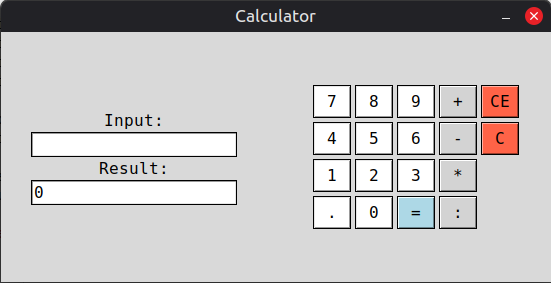
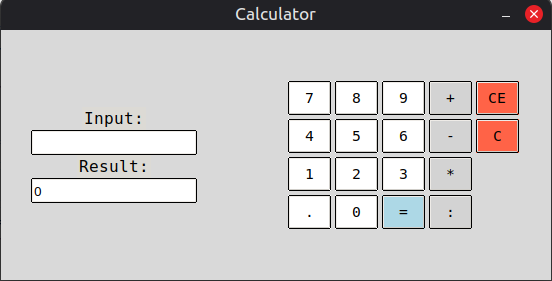
Fixes

diff --git a/tkinter_calculator.py b/tkinter_calculator.py
@@ -2,6 +2,7 @@
 
 import tkinter as tk
 import numpy
+from tkinter import ttk
 from numpy import sin as sin
 from numpy import cos as cos # Not yet implemented fully but just learning how to rename functions.
 from numpy import tan as tan
@@ -9,10 +10,35 @@ from numpy import tan as tan
 window = tk.Tk()
 window.title("Calculator")
 window.geometry("550x250")
-window.resizable(False, False) # Easier than having it adjust for now
+window.resizable(False, False)
 
-logo = tk.PhotoImage(file="calculator.png")
-window.iconphoto(True, logo)
+style = ttk.Style()
+style.theme_use("clam")
+
+style.configure(
+    "TEntry",
+    font=("Fixedsys", 11),
+    bordercolor="black"
+)
+
+style.configure(
+    "TButton",
+    font=("Fixedsys", 11),
+    height=1, 
+    width=3, 
+    bordercolor="black"
+)
+
+style.configure("Blue.TButton", background="lightblue")
+style.configure("White.TButton", background="white")
+style.configure("Gray.TButton", background="lightgray")
+style.configure("Red.TButton", background="tomato")
+
+try:
+    logo = tk.PhotoImage(file="calculator.png")
+    window.iconphoto(True, logo)
+except:
+    pass
 
 user_input = tk.StringVar(window) # A variable that stores what is written in .Entry().
 output = tk.StringVar(window, "0")
@@ -58,80 +84,80 @@ buttonsInput.pack(side="right")
 
 # Put entry and labels here
 
-input_text = tk.Label(resultWrite, text="Input:", font="Fixedsys")
+input_text = ttk.Label(resultWrite, text="Input:", font="Fixedsys")
 input_text.pack(side="top")
 
-write = tk.Entry(resultWrite, textvariable=user_input, font="Fixedsys", highlightbackground="black",)
+write = ttk.Entry(resultWrite, textvariable=user_input, style="TEntry")
 write.pack(side="top", after=input_text)
 
-output_text = tk.Label(resultWrite, text="Result:", font="Fixedsys")
+output_text = ttk.Label(resultWrite, text="Result:", font="Fixedsys")
 output_text.pack(side="top", after=write)
 
-result = tk.Entry(resultWrite, textvariable=output, font="Fixedsys", highlightbackground="black",)
-result.config(state="readonly", readonlybackground="white")
+result = ttk.Entry(resultWrite, textvariable=output, style="TEntry")
+result.config(state="readonly")
 result.pack(side="top", after=output_text)
 
 # Put buttons here
 
 # ---Numbers---
-calc = tk.Button(buttonsInput, text="=", font="Fixedsys", width=1, height=1, background="lightblue", highlightbackground="black", command=calculate)
+calc = ttk.Button(buttonsInput, text="=", style="Blue.TButton", command=calculate)
 calc.grid(row=3, column=2, padx=2, pady=2)
 
-zero = tk.Button(buttonsInput, text="0", font="Fixedsys", width=1, height=1, background="white", highlightbackground="black", command=lambda:insert("0")) # lambda - Acts as a sheild so that insert isn't already used on start
+zero = ttk.Button(buttonsInput, text="0", style="White.TButton", command=lambda:insert("0")) # lambda - Acts as a sheild so that insert isn't already used on start
 zero.grid(row=3, column=1, padx=2, pady=2)
 # lambda - Function that gets read on start and the program realises it isn't supposed to be used yet.
 # When we press the button, only then it "unpacks" lambda and does insert
 
-one = tk.Button(buttonsInput, text="1", font="Fixedsys", width=1, height=1, background="white", highlightbackground="black", command=lambda:insert("1"))
+one = ttk.Button(buttonsInput, text="1", style="White.TButton", command=lambda:insert("1"))
 one.grid(row=2, column=0, padx=2, pady=2)
 
-two = tk.Button(buttonsInput, text="2", font="Fixedsys", width=1, height=1, background="white", highlightbackground="black", command=lambda:insert("2"))
+two = ttk.Button(buttonsInput, text="2", style="White.TButton", command=lambda:insert("2"))
 two.grid(row=2, column=1, padx=2, pady=2)
 
-three = tk.Button(buttonsInput, text="3", font="Fixedsys", width=1, height=1, background="white", highlightbackground="black", command=lambda:insert("3"))
+three = ttk.Button(buttonsInput, text="3", style="White.TButton", command=lambda:insert("3"))
 three.grid(row=2, column=2, padx=2, pady=2)
 
-four = tk.Button(buttonsInput, text="4", font="Fixedsys", width=1, height=1, background="white", highlightbackground="black", command=lambda:insert("4"))
+four = ttk.Button(buttonsInput, text="4", style="White.TButton", command=lambda:insert("4"))
 four.grid(row=1, column=0, padx=2, pady=2)
 
-five = tk.Button(buttonsInput, text="5", font="Fixedsys", width=1, height=1, background="white", highlightbackground="black", command=lambda:insert("5"))
+five = ttk.Button(buttonsInput, text="5", style="White.TButton", command=lambda:insert("5"))
 five.grid(row=1, column=1, padx=2, pady=2)
 
-six = tk.Button(buttonsInput, text="6", font="Fixedsys", width=1, height=1, background="white", highlightbackground="black", command=lambda:insert("6"))
+six = ttk.Button(buttonsInput, text="6", style="White.TButton", command=lambda:insert("6"))
 six.grid(row=1, column=2, padx=2, pady=2)
 
-seven = tk.Button(buttonsInput, text="7", font="Fixedsys", width=1, height=1, background="white", highlightbackground="black", command=lambda:insert("7"))
+seven = ttk.Button(buttonsInput, text="7", style="White.TButton", command=lambda:insert("7"))
 seven.grid(row=0, column=0, padx=2, pady=2)
 
-eight = tk.Button(buttonsInput, text="8", font="Fixedsys", width=1, height=1, background="white", highlightbackground="black", command=lambda:insert("8"))
+eight = ttk.Button(buttonsInput, text="8", style="White.TButton", command=lambda:insert("8"))
 eight.grid(row=0, column=1, padx=2, pady=2)
 
-nine = tk.Button(buttonsInput, text="9", font="Fixedsys", width=1, height=1, background="white", highlightbackground="black", command=lambda:insert("9"))
+nine = ttk.Button(buttonsInput, text="9", style="White.TButton", command=lambda:insert("9"))
 nine.grid(row=0, column=2, padx=2, pady=2)
 
 # Operations
-plus = tk.Button(buttonsInput, text="+", font="Fixedsys", width=1, height=1, background="lightgray", highlightbackground="black", command=lambda:insert("+"))
+plus = ttk.Button(buttonsInput, text="+", style="Gray.TButton", command=lambda:insert("+"))
 plus.grid(row=0, column=3, padx=2, pady=2)
 
-minus = tk.Button(buttonsInput, text="-", font="Fixedsys", width=1, height=1, background="lightgray", highlightbackground="black", command=lambda:insert("-"))
+minus = ttk.Button(buttonsInput, text="-", style="Gray.TButton", command=lambda:insert("-"))
 minus.grid(row=1, column=3, padx=2, pady=2)
 
-times = tk.Button(buttonsInput, text="*", font="Fixedsys", width=1, height=1, background="lightgray", highlightbackground="black", command=lambda:insert("*"))
+times = ttk.Button(buttonsInput, text="*", style="Gray.TButton", command=lambda:insert("*"))
 times.grid(row=2, column=3, padx=2, pady=2)
 
-divided = tk.Button(buttonsInput, text=":", font="Fixedsys", width=1, height=1, background="lightgray", highlightbackground="black", command=lambda:insert(":"))
+divided = ttk.Button(buttonsInput, text=":", style="Gray.TButton", command=lambda:insert(":"))
 divided.grid(row=3, column=3, padx=2, pady=2)
 
 # ---Other---
 
-comma = tk.Button(buttonsInput, text=".", font="Fixedsys", width=1, height=1, background="white", highlightbackground="black", command=lambda:insert("."))
+comma = ttk.Button(buttonsInput, text=".", style="White.TButton", command=lambda:insert("."))
 comma.grid(row=3, column=0, padx=2, pady=2)
 
-BackSpace = tk.Button(buttonsInput, text="C", font="Fixedsys", width=1, height=1, background="tomato", highlightbackground="black", command=backspace)
-BackSpace.grid(row=1, column=4, padx=2, pady=2)
+BackSpace = ttk.Button(buttonsInput, text="CE", style="Red.TButton", command=backspace)
+BackSpace.grid(row=0, column=4, padx=2, pady=2)
 
-clear = tk.Button(buttonsInput, text="CE", font="Fixedsys", width=1, height=1, background="tomato", highlightbackground="black", command=clear_all)
-clear.grid(row=0, column=4, padx=2, pady=2)
+clear = ttk.Button(buttonsInput, text="C", style="Red.TButton", command=clear_all)
+clear.grid(row=1, column=4, padx=2, pady=2)
 
 # Put binds here
 